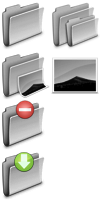
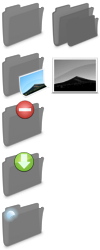
continued

diff --git a/app/webroot/js/spine/app/director/controllers/sidebar_list.js b/app/webroot/js/spine/app/director/controllers/sidebar_list.js
@@ -86,8 +86,7 @@ SidebarList = (function() {
       }
     }
     Gallery.current(this.current);
-    this.exposeSelection(this.current);
-    return Spine.trigger('change:selectedGallery', this.current, mode);
+    return this.activate(this.current);
   };
   SidebarList.prototype.render = function(galleries, gallery, mode) {
     console.log('SidebarList::render');
@@ -154,6 +153,12 @@ SidebarList = (function() {
     gallerySublist.html(this.sublistTemplate(albums));
     return this.updateTemplate(gallery);
   };
+  SidebarList.prototype.activate = function(gallery) {
+    if (this.current) {
+      this.exposeSelection(this.current);
+    }
+    return Spine.trigger('change:selectedGallery', this.current, this.mode);
+  };
   SidebarList.prototype.updateTemplate = function(gallery) {
     var galleryContentEl, galleryEl, tmplItem;
     galleryEl = this.children().forItem(gallery);
@@ -203,7 +208,8 @@ SidebarList = (function() {
     return this.exposeSublistSelection(gallery);
   };
   SidebarList.prototype.exposeSublistSelection = function(gallery) {
-    var album, albums, galleryEl, id, item, list, removeAlbumSelection, val, _i, _len, _ref, _results;
+    var album, albums, galleryEl, id, removeAlbumSelection, _i, _len, _ref, _results;
+    console.log(Gallery.record.id === (gallery != null ? gallery.id : void 0));
     console.log('SidebarList::exposeSublistSelection');
     removeAlbumSelection = __bind(function() {
       var albums, galleries, galleryEl, item, val, _i, _len, _ref, _results;
@@ -218,49 +224,34 @@ SidebarList = (function() {
         item = galleries[_i];
         galleryEl = this.children().forItem(item);
         albums = galleryEl.find('li');
-        _results.push(albums.removeClass('active'));
+        _results.push(albums.removeClass('selected').removeClass('active'));
       }
       return _results;
     }, this);
-    list = [];
-    if (!gallery) {
+    if (Gallery.record) {
       removeAlbumSelection();
-      _ref = Gallery.records;
-      for (item in _ref) {
-        val = _ref[item];
-        list.push(val);
-      }
-    } else {
-      removeAlbumSelection();
-      list.push(gallery);
-    }
-    _results = [];
-    for (_i = 0, _len = list.length; _i < _len; _i++) {
-      item = list[_i];
-      galleryEl = this.children().forItem(item);
+      galleryEl = this.children().forItem(Gallery.record);
       albums = galleryEl.find('li');
-      _results.push((function() {
-        var _j, _len2, _ref2, _results2;
-        _ref2 = Gallery.selectionList();
-        _results2 = [];
-        for (_j = 0, _len2 = _ref2.length; _j < _len2; _j++) {
-          id = _ref2[_j];
-          if (Album.exists(id)) {
-            album = Album.find(id);
-          }
-          _results2.push(albums.forItem(album).addClass('active'));
+      _ref = Gallery.selectionList();
+      _results = [];
+      for (_i = 0, _len = _ref.length; _i < _len; _i++) {
+        id = _ref[_i];
+        if (Album.exists(id)) {
+          album = Album.find(id);
         }
-        return _results2;
-      })());
+        _results.push(album.id === Album.activeRecord.id ? albums.forItem(album).addClass('active') : albums.forItem(album).addClass('selected'));
+      }
+      return _results;
+    } else {
+      return removeAlbumSelection();
     }
-    return _results;
   };
   SidebarList.prototype.clickAlb = function(e) {
     var album, albumEl, gallery, galleryEl, previous;
     console.log('SidebarList::albclick');
     albumEl = $(e.currentTarget);
     galleryEl = $(e.currentTarget).closest('li.gal');
-    album = albumEl.item();
+    album = Album.activeRecord = albumEl.item();
     gallery = galleryEl.item();
     if (!this.isCtrlClick(e)) {
       previous = Album.record;

diff --git a/app/webroot/js/spine/app/director/controllers/albums_view.js b/app/webroot/js/spine/app/director/controllers/albums_view.js
@@ -102,6 +102,8 @@ AlbumsView = (function() {
   };
   AlbumsView.prototype.show = function() {
     this.parent.trigger('change:toolbar', Album);
+    Album.activeRecord = false;
+    Spine.trigger('expose:sublistSelection');
     return Spine.trigger('change:canvas', this);
   };
   AlbumsView.prototype.initSortables = function() {
@@ -132,7 +134,7 @@ AlbumsView = (function() {
       Album.trigger('create:join', Gallery.record, album);
     }
     Spine.trigger('change:selectedAlbum', album);
-    Spine.trigger('show:albums');
+    this.show();
     this.change(album);
     return this.openPanel('album', App.showView.btnAlbum);
   };

diff --git a/app/webroot/js/spine/app/director/controllers/photos_header.js b/app/webroot/js/spine/app/director/controllers/photos_header.js
@@ -22,12 +22,10 @@ PhotosHeader = (function() {
   }
   PhotosHeader.prototype.backToGalleries = function() {
     console.log('PhotosHeader::closeView');
-    Spine.trigger('album:exposeSelection');
     return Spine.trigger('show:galleries');
   };
   PhotosHeader.prototype.backToAlbums = function() {
     console.log('PhotosHeader::closeView');
-    Spine.trigger('gallery:exposeSelection', Gallery.record);
     return Spine.trigger('show:albums');
   };
   PhotosHeader.prototype.change = function(item) {

diff --git a/app/webroot/css/spine/director/application.css b/app/webroot/css/spine/director/application.css
@@ -599,6 +599,11 @@ textarea {
 #sidebar ul.sublist li.sublist-item {
   position: relative;
 }
+#sidebar ul.sublist li.sublist-item.selected .ui-symbol {
+  -moz-background-position: 0 -200px;
+	 -webkit-background-position: 0 -200px;
+	 background-position: 0 -200px;
+}
 #sidebar ul.sublist li.sublist-item.active .ui-symbol {
   -moz-background-position: 0 -50px;
 	 -webkit-background-position: 0 -50px;

diff --git a/app/webroot/js/spine/app/director/controllers/galleries_view.js b/app/webroot/js/spine/app/director/controllers/galleries_view.js
@@ -46,6 +46,8 @@ GalleriesView = (function() {
   };
   GalleriesView.prototype.show = function() {
     this.parent.trigger('change:toolbar', Gallery);
+    Album.activeRecord = false;
+    Spine.trigger('gallery:exposeSelection', Gallery.record);
     return Spine.trigger('change:canvas', this);
   };
   GalleriesView.prototype.newAttributes = function() {

diff --git a/app/webroot/js/spine/app/director/controllers/photos_view.js b/app/webroot/js/spine/app/director/controllers/photos_view.js
@@ -170,6 +170,9 @@ PhotosView = (function() {
     if (this.isActive()) {
       return;
     }
+    Album.activeRecord = Album.record;
+    Spine.trigger('change:selectedAlbum', Album.record, Album.changed());
+    Spine.trigger('expose:sublistSelection');
     this.renderHeader();
     return Spine.trigger('change:canvas', this);
   };

diff --git a/app/webroot/js/spine/app/director/controllers/photo_view.js b/app/webroot/js/spine/app/director/controllers/photo_view.js
@@ -45,7 +45,7 @@ PhotoView = (function() {
   }
   PhotoView.prototype.change = function(item, changed) {
     console.log('PhotoView::change');
-    return this.current = item;
+    return Photo.activeRecord = this.current = item;
   };
   PhotoView.prototype.render = function(item, mode) {
     var _ref;

diff --git a/app/webroot/js/spine/app/director/controllers/albums_header.js b/app/webroot/js/spine/app/director/controllers/albums_header.js
@@ -39,7 +39,6 @@ AlbumsHeader = (function() {
     }
   };
   AlbumsHeader.prototype.backToGalleries = function() {
-    Spine.trigger('gallery:exposeSelection', Gallery.record);
     return Spine.trigger('show:galleries');
   };
   return AlbumsHeader;

diff --git a/app/webroot/js/spine/app/director/plugins/model_extender.js b/app/webroot/js/spine/app/director/plugins/model_extender.js
@@ -15,6 +15,7 @@ Model.Extender = {
     var Extend, Include;
     Extend = {
       record: false,
+      activeRecord: false,
       selection: [
         {
           global: []
